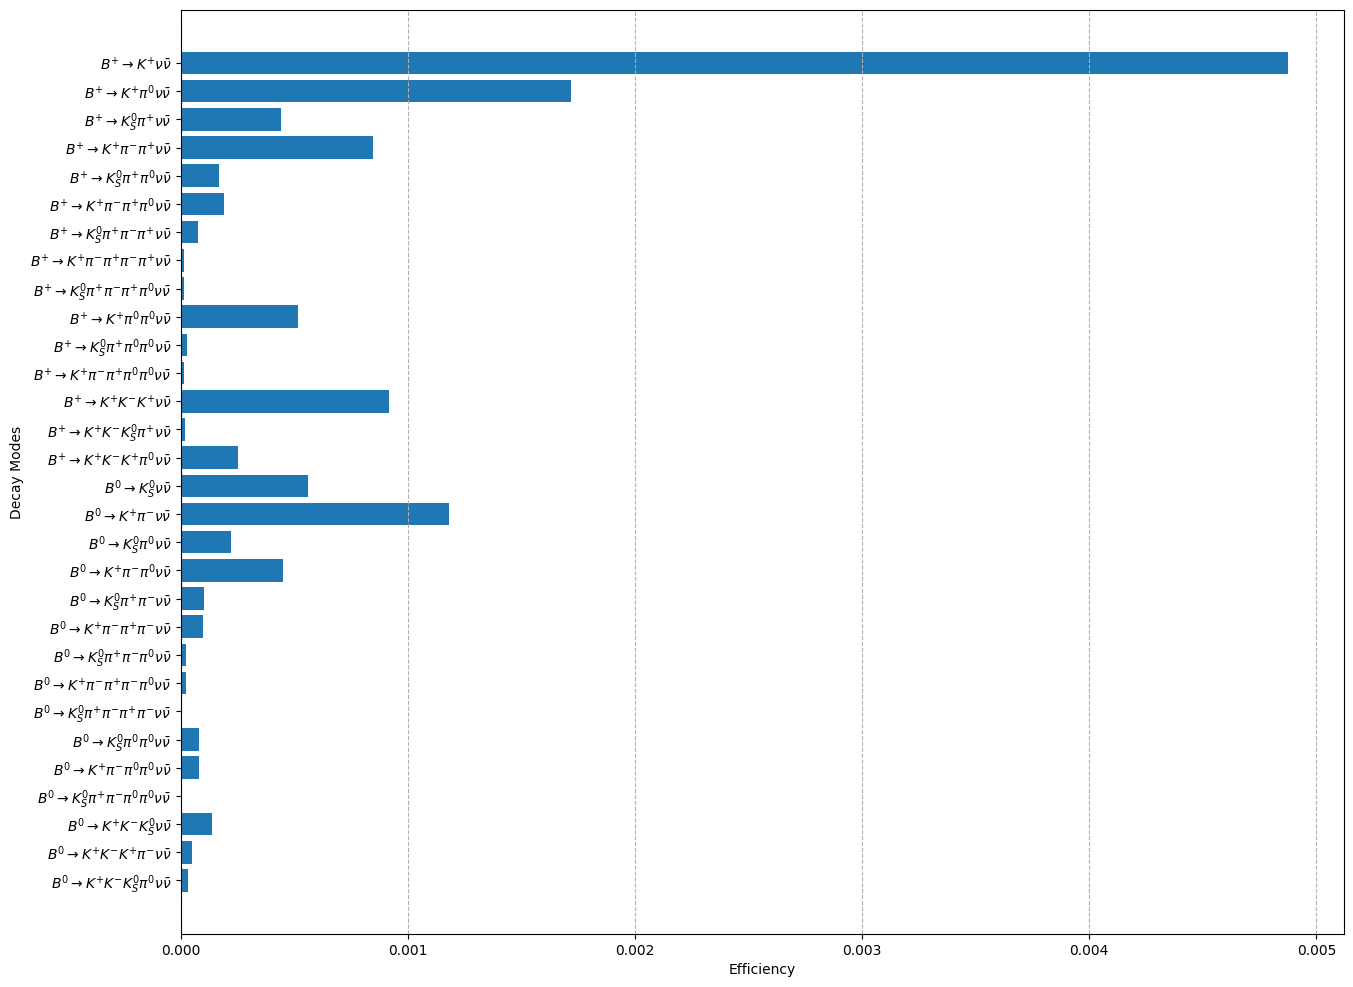
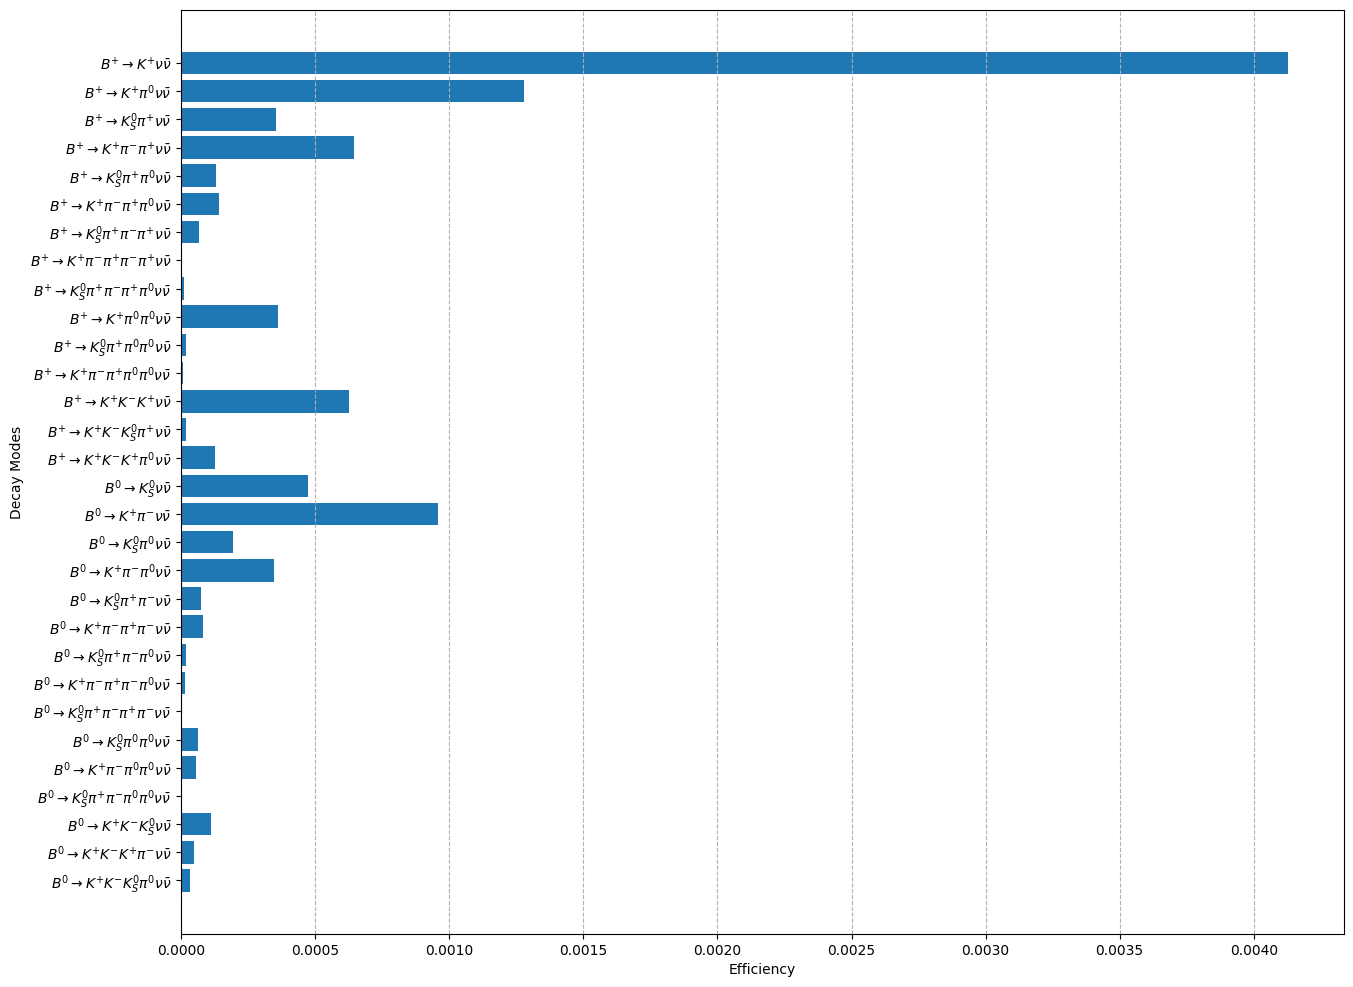
fit corr plot drawer

diff --git a/matlab/DrawCovMatrix_PID.py b/matlab/DrawCovMatrix_PID.py
@@ -7,6 +7,8 @@ import seaborn as sn
 import pandas as pd
 import matplotlib.pyplot as plt
 
+from matplotlib.ticker import FixedLocator
+
 # KID
 file_KID_cov_all = "KID_corr_all.txt"
 file_KID_cov_partial = "KID_corr_partial.txt"
@@ -17,6 +19,14 @@ KID_cov_partial = np.loadtxt(file_KID_cov_partial, dtype=float)
 ar = np.array(KID_cov_all)
 ax = sn.heatmap(ar, cmap="viridis", xticklabels=[], yticklabels=[], vmin=-0.3, vmax=1.0)
 ax.tick_params(left=False, bottom=False)
+
+labels = ["CHG", "MIX", "UUBAR", "DDBAR", "SSBAR", "CHARM", "Signal"]
+ticks = [0, 6, 12, 18, 24, 30, 36, 42]
+ax.yaxis.set_major_locator(FixedLocator([(t0 + t1) / 2 for t0, t1 in zip(ticks[:-1], ticks[1:])]))
+ax.set_yticklabels(labels, rotation=90, va="center")
+ax.xaxis.set_major_locator(FixedLocator([(t0 + t1) / 2 for t0, t1 in zip(ticks[:-1], ticks[1:])]))
+ax.set_xticklabels(labels, rotation=0)
+
 #plt.show()
 plt.savefig('KID_corr_all.png')
 
@@ -25,6 +35,14 @@ plt.clf()
 ar_p = np.array(KID_cov_partial)
 ax_p = sn.heatmap(ar_p, cmap="viridis", xticklabels=[], yticklabels=[], vmin=-0.3, vmax=1.0)
 ax_p.tick_params(left=False, bottom=False)
+
+labels = ["CHG", "MIX", "UUBAR", "DDBAR", "SSBAR", "CHARM", "Signal"]
+ticks = [0, 6, 12, 18, 24, 30, 36, 42]
+ax_p.yaxis.set_major_locator(FixedLocator([(t0 + t1) / 2 for t0, t1 in zip(ticks[:-1], ticks[1:])]))
+ax_p.set_yticklabels(labels, rotation=90, va="center")
+ax_p.xaxis.set_major_locator(FixedLocator([(t0 + t1) / 2 for t0, t1 in zip(ticks[:-1], ticks[1:])]))
+ax_p.set_xticklabels(labels, rotation=0)
+
 #plt.show()
 plt.savefig('KID_corr_partial.png')
 
@@ -40,6 +58,14 @@ PID_cov_partial = np.loadtxt(file_PID_cov_partial, dtype=float)
 ar = np.array(PID_cov_all)
 ax = sn.heatmap(ar, cmap="viridis", xticklabels=[], yticklabels=[],vmin=-0.5, vmax=1.0)
 ax.tick_params(left=False, bottom=False)
+
+labels = ["CHG", "MIX", "UUBAR", "DDBAR", "SSBAR", "CHARM", "Signal"]
+ticks = [0, 6, 12, 18, 24, 30, 36, 42]
+ax.yaxis.set_major_locator(FixedLocator([(t0 + t1) / 2 for t0, t1 in zip(ticks[:-1], ticks[1:])]))
+ax.set_yticklabels(labels, rotation=90, va="center")
+ax.xaxis.set_major_locator(FixedLocator([(t0 + t1) / 2 for t0, t1 in zip(ticks[:-1], ticks[1:])]))
+ax.set_xticklabels(labels, rotation=0)
+
 #plt.show()
 plt.savefig('PID_corr_all.png')
 
@@ -48,5 +74,13 @@ plt.clf()
 ar_p = np.array(PID_cov_partial)
 ax_p = sn.heatmap(ar_p, cmap="viridis", xticklabels=[], yticklabels=[],vmin=-0.5, vmax=1.0)
 ax_p.tick_params(left=False, bottom=False)
+
+labels = ["CHG", "MIX", "UUBAR", "DDBAR", "SSBAR", "CHARM", "Signal"]
+ticks = [0, 6, 12, 18, 24, 30, 36, 42]
+ax_p.yaxis.set_major_locator(FixedLocator([(t0 + t1) / 2 for t0, t1 in zip(ticks[:-1], ticks[1:])]))
+ax_p.set_yticklabels(labels, rotation=90, va="center")
+ax_p.xaxis.set_major_locator(FixedLocator([(t0 + t1) / 2 for t0, t1 in zip(ticks[:-1], ticks[1:])]))
+ax_p.set_xticklabels(labels, rotation=0)
+
 #plt.show()
 plt.savefig('PID_corr_partial.png')

diff --git a/matlab/DrawCovMatrix_pi0.py b/matlab/DrawCovMatrix_pi0.py
@@ -7,6 +7,8 @@ import seaborn as sn
 import pandas as pd
 import matplotlib.pyplot as plt
 
+from matplotlib.ticker import FixedLocator
+
 # pi0
 file_pi0_cov_all = "pi0_corr_all.txt"
 file_pi0_cov_partial = "pi0_corr_partial.txt"
@@ -17,6 +19,14 @@ pi0_cov_partial = np.loadtxt(file_pi0_cov_partial, dtype=float)
 ar = np.array(pi0_cov_all)
 ax = sn.heatmap(ar, cmap="viridis", xticklabels=[], yticklabels=[], vmin=-0.3, vmax=1.0)
 ax.tick_params(left=False, bottom=False)
+
+labels = ["CHG", "MIX", "UUBAR", "DDBAR", "SSBAR", "CHARM", "Signal"]
+ticks = [0, 6, 12, 18, 24, 30, 36, 42]
+ax.yaxis.set_major_locator(FixedLocator([(t0 + t1) / 2 for t0, t1 in zip(ticks[:-1], ticks[1:])]))
+ax.set_yticklabels(labels, rotation=90, va="center")
+ax.xaxis.set_major_locator(FixedLocator([(t0 + t1) / 2 for t0, t1 in zip(ticks[:-1], ticks[1:])]))
+ax.set_xticklabels(labels, rotation=0)
+
 #plt.show()
 plt.savefig('pi0_corr_all.png')
 
@@ -25,6 +35,14 @@ plt.clf()
 ar_p = np.array(pi0_cov_partial)
 ax_p = sn.heatmap(ar_p, cmap="viridis", xticklabels=[], yticklabels=[], vmin=-0.3, vmax=1.0)
 ax_p.tick_params(left=False, bottom=False)
+
+labels = ["CHG", "MIX", "UUBAR", "DDBAR", "SSBAR", "CHARM", "Signal"]
+ticks = [0, 6, 12, 18, 24, 30, 36, 42]
+ax_p.yaxis.set_major_locator(FixedLocator([(t0 + t1) / 2 for t0, t1 in zip(ticks[:-1], ticks[1:])]))
+ax_p.set_yticklabels(labels, rotation=90, va="center")
+ax_p.xaxis.set_major_locator(FixedLocator([(t0 + t1) / 2 for t0, t1 in zip(ticks[:-1], ticks[1:])]))
+ax_p.set_xticklabels(labels, rotation=0)
+
 #plt.show()
 plt.savefig('pi0_corr_partial.png')
 

diff --git a/matlab/DrawCovMatrix_BR.py b/matlab/DrawCovMatrix_BR.py
@@ -7,6 +7,8 @@ import seaborn as sn
 import pandas as pd
 import matplotlib.pyplot as plt
 
+from matplotlib.ticker import FixedLocator
+
 # BR
 file_BR_corr_all = "BR_corr_all.txt"
 file_BR_corr_partial = "BR_corr_partial.txt"
@@ -17,6 +19,14 @@ BR_corr_partial = np.loadtxt(file_BR_corr_partial, dtype=float)
 ar = np.array(BR_corr_all)
 ax = sn.heatmap(ar, cmap="viridis", xticklabels=[], yticklabels=[])#, vmin=-0.3, vmax=1.0)
 ax.tick_params(left=False, bottom=False)
+
+labels = ["CHG", "MIX"]
+ticks = [0, 6, 12]
+ax.yaxis.set_major_locator(FixedLocator([(t0 + t1) / 2 for t0, t1 in zip(ticks[:-1], ticks[1:])]))
+ax.set_yticklabels(labels, rotation=90, va="center")
+ax.xaxis.set_major_locator(FixedLocator([(t0 + t1) / 2 for t0, t1 in zip(ticks[:-1], ticks[1:])]))
+ax.set_xticklabels(labels, rotation=0)
+
 #plt.show()
 plt.savefig('BR_corr_all.png')
 
@@ -25,6 +35,14 @@ plt.clf()
 ar_p = np.array(BR_corr_partial)
 ax_p = sn.heatmap(ar_p, cmap="viridis", xticklabels=[], yticklabels=[])#, vmin=0.0, vmax=0.0001)
 ax_p.tick_params(left=False, bottom=False)
+
+labels = ["CHG", "MIX"]
+ticks = [0, 6, 12]
+ax_p.yaxis.set_major_locator(FixedLocator([(t0 + t1) / 2 for t0, t1 in zip(ticks[:-1], ticks[1:])]))
+ax_p.set_yticklabels(labels, rotation=90, va="center")
+ax_p.xaxis.set_major_locator(FixedLocator([(t0 + t1) / 2 for t0, t1 in zip(ticks[:-1], ticks[1:])]))
+ax_p.set_xticklabels(labels, rotation=0)
+
 #plt.show()
 plt.savefig('BR_corr_partial.png')
 

diff --git a/Belle2/Diagonal_Efficiency_Per_Mode.py b/Belle2/Diagonal_Efficiency_Per_Mode.py
@@ -96,13 +96,9 @@ for i in range(0,30):
         else:
             cross_feed[i][j] = 0
 
-print(values[22][22])
-print(values[20][20])
-print(values[20][22])
-print(Efficiency[20][22])
-print(Efficiency_diagonal[22])
-print(cross_feed[20][22])
+
 print(Efficiency_diagonal[0])
+
 
 reco_list.reverse()
 Efficiency_diagonal.reverse()
